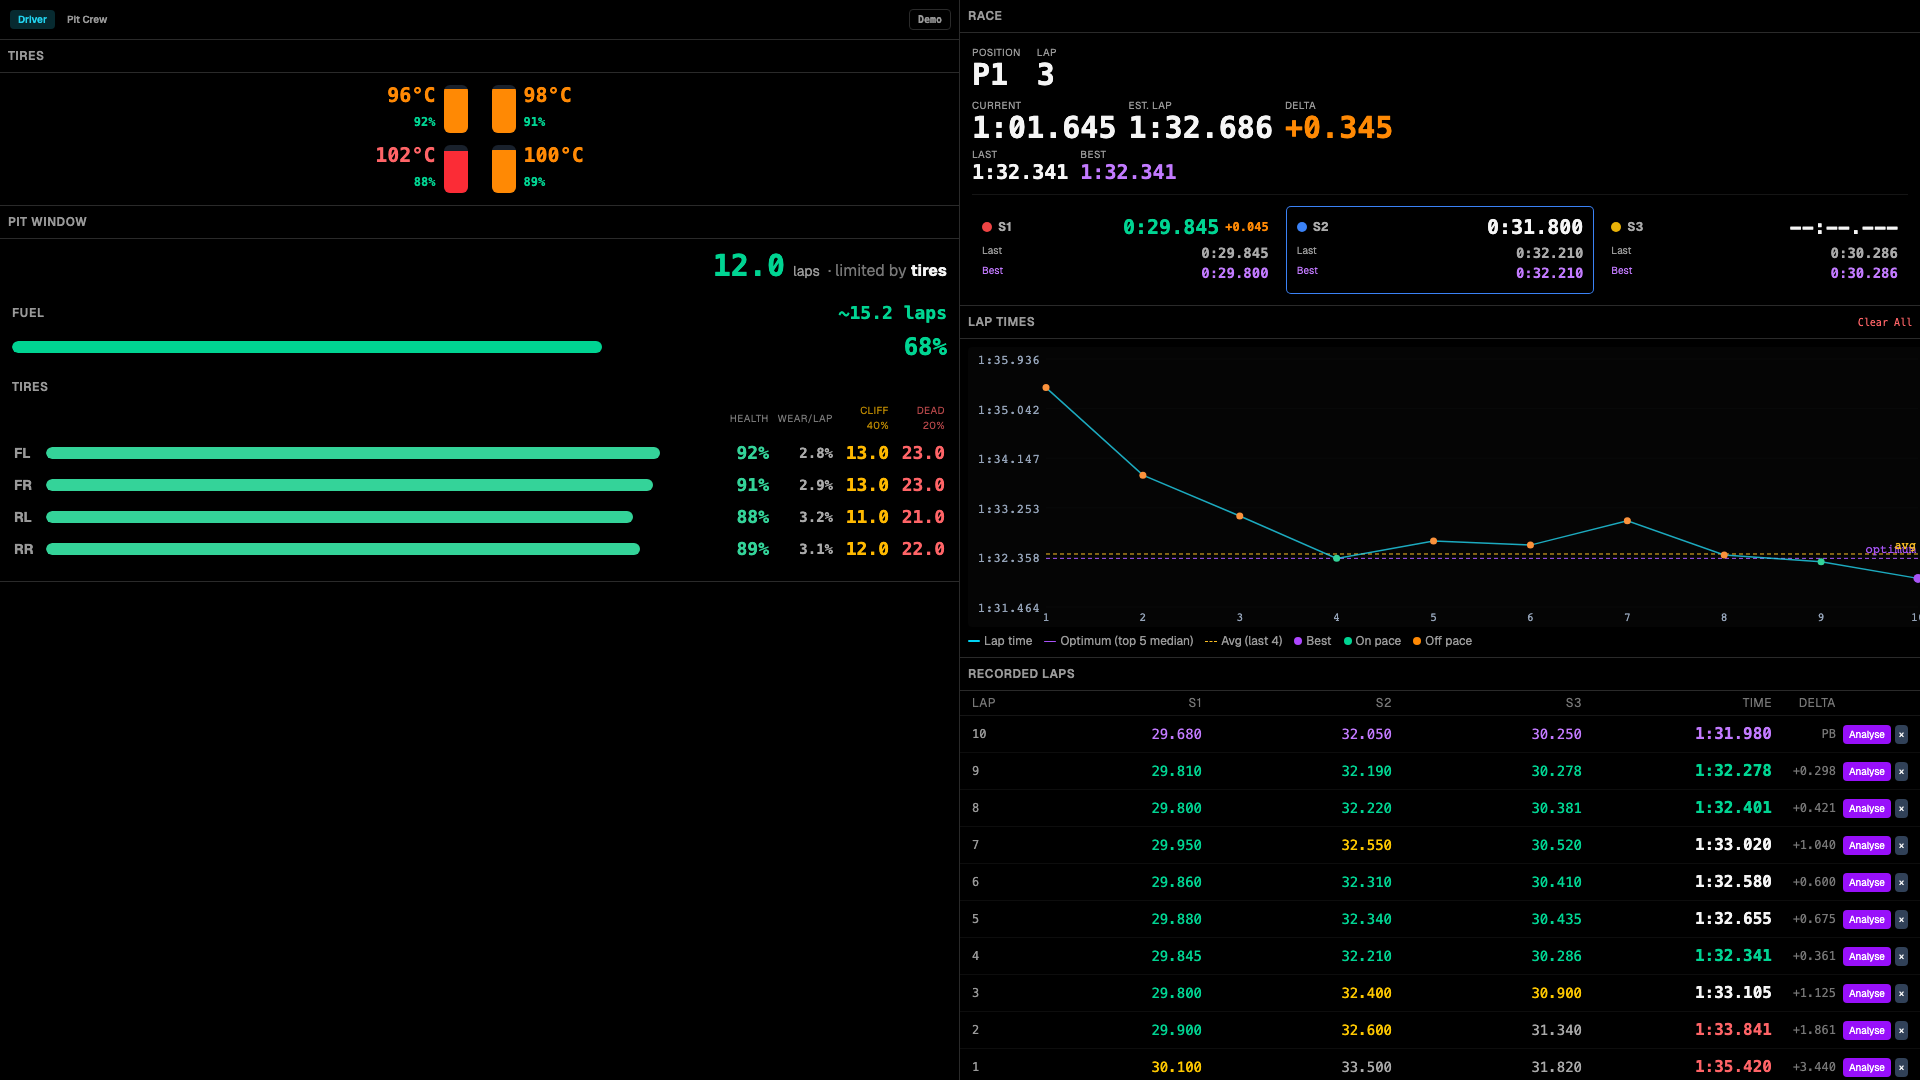
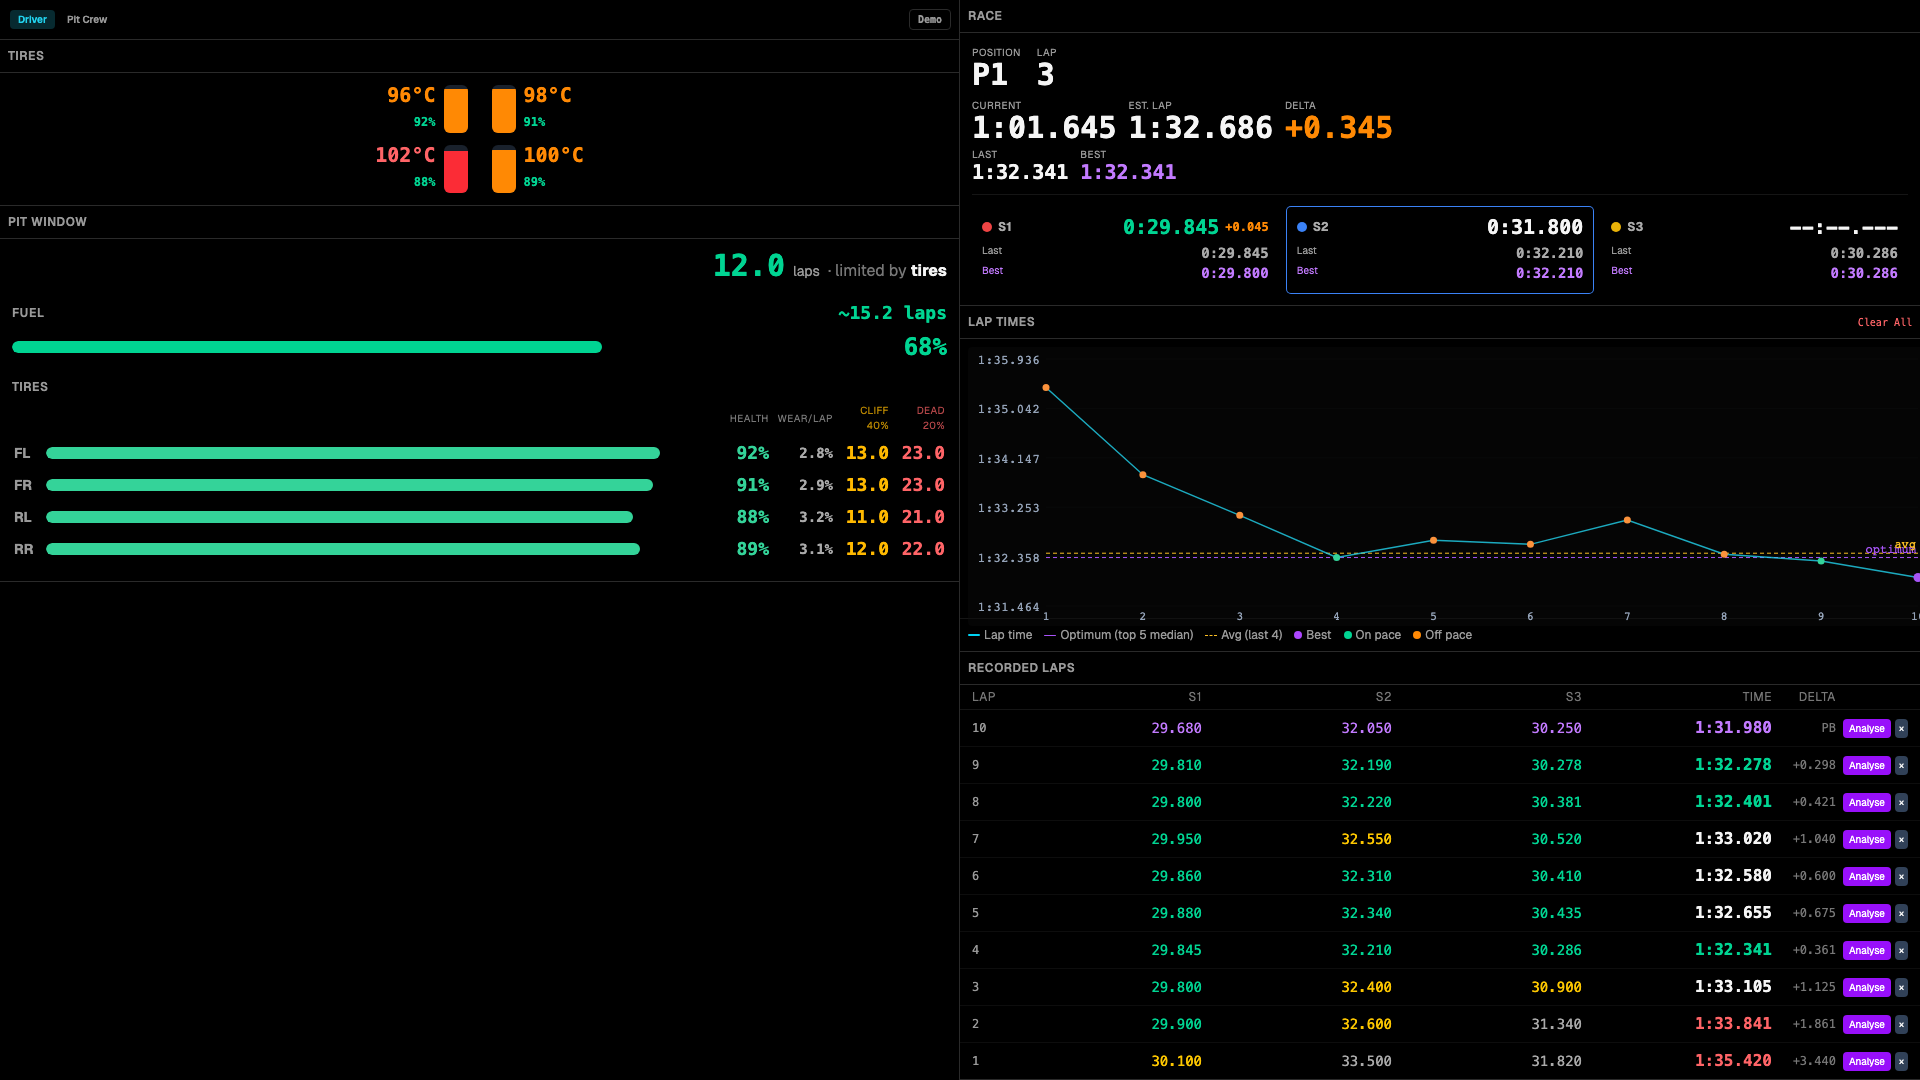
feat(dashes): flex-fill pace chart, 60/40 split, NoData stories
- LapTimeChart fills its flex parent via h-full flex flex-col; canvas is
  absolutely positioned inside a flex-1 wrapper so it can't push the
  parent taller. Canvas pixel buffer syncs to the measured rect.
- ComboDash2 locks grid rows at 3fr/2fr (60% chart / 40% laps) so the
  chart doesn't eat the whole panel when there are no laps yet.
- Each dash story gains a NoData variant alongside populated states.

diff --git a/client/src/components/LapTimeChart.tsx b/client/src/components/LapTimeChart.tsx
@@ -13,10 +13,11 @@ import { formatLapTime } from "./LiveTelemetry";
 export function LapTimeChart({
   packet,
   allLaps = [],
-  height = 280,
+  height,
 }: {
   packet: TelemetryPacket | null;
   allLaps?: LapMeta[];
+  /** Optional fixed height. If omitted the chart fills its parent via flex. */
   height?: number;
 }) {
   const [liveLaps, setLiveLaps] = useState<{ lap: number; time: number }[]>([]);
@@ -59,18 +60,27 @@ export function LapTimeChart({
 
   const canvasRef = useRef<HTMLCanvasElement>(null);
   const containerRef = useRef<HTMLDivElement>(null);
-  const [containerWidth, setContainerWidth] = useState(0);
+  // When height is provided via props, use it; otherwise the canvas
+  // wrapper fills its flex parent and we measure its rendered size.
+  const [measured, setMeasured] = useState<{ w: number; h: number }>({ w: 0, h: 280 });
 
-  // Track container width so the canvas redraws when the panel resizes.
   useEffect(() => {
     const container = containerRef.current;
     if (!container) return;
-    const update = () => setContainerWidth(container.clientWidth);
+    const update = () => {
+      const rect = container.getBoundingClientRect();
+      if (rect.width > 0 && rect.height > 0) {
+        setMeasured({ w: rect.width, h: rect.height });
+      }
+    };
     update();
     const ro = new ResizeObserver(update);
     ro.observe(container);
     return () => ro.disconnect();
   }, []);
+
+  const containerWidth = measured.w;
+  const effectiveHeight = height ?? measured.h;
 
   const handleClearAll = () => {
     setLiveLaps([]);
@@ -87,19 +97,20 @@ export function LapTimeChart({
     if (!ctx) return;
 
     const width = container.clientWidth;
+    const h = effectiveHeight;
     const dpr = window.devicePixelRatio || 1;
     canvas.width = width * dpr;
-    canvas.height = height * dpr;
+    canvas.height = h * dpr;
     canvas.style.width = `${width}px`;
-    canvas.style.height = `${height}px`;
+    canvas.style.height = `${h}px`;
     ctx.scale(dpr, dpr);
-    ctx.clearRect(0, 0, width, height);
+    ctx.clearRect(0, 0, width, h);
 
     const leftPad = 78;
     const rightPad = 10;
     const topPad = 12;
     const bottomPad = 20;
-    const plotH = Math.max(1, height - topPad - bottomPad);
+    const plotH = Math.max(1, h - topPad - bottomPad);
     const yOf = (v: number) => topPad + plotH - ((v - minY) / yRange) * plotH;
 
     const times = laps.map((l) => l.time);
@@ -187,11 +198,11 @@ export function LapTimeChart({
       ctx.textAlign = "center";
       ctx.fillText(`${laps[i].lap}`, x, topPad + plotH + 14);
     }
-  }, [laps, height, containerWidth]);
+  }, [laps, effectiveHeight, containerWidth]);
 
   return (
-    <div className="border-b border-app-border">
-      <div className="p-2 border-b border-app-border flex items-center justify-between">
+    <div className="h-full flex flex-col border-b border-app-border">
+      <div className="shrink-0 p-2 border-b border-app-border flex items-center justify-between">
         <h2 className="text-xs font-semibold text-app-text-muted uppercase tracking-wider">Lap Times</h2>
         <button
           onClick={handleClearAll}
@@ -200,18 +211,26 @@ export function LapTimeChart({
           Clear All
         </button>
       </div>
-      <div className="p-2" ref={containerRef}>
+      <div className="flex-1 min-h-0 relative p-2" ref={containerRef} style={height ? { height: height + 16 } : undefined}>
         {laps.length === 0 && (
-          <div className="flex items-center justify-center rounded bg-app-surface/40 text-app-text-dim text-sm" style={{ height }}>
+          <div className="absolute inset-2 flex items-center justify-center rounded bg-app-surface/40 text-app-text-dim text-sm">
             Complete a lap to see lap times
           </div>
         )}
         <canvas
           ref={canvasRef}
-          style={{ width: "100%", height, display: laps.length > 0 ? "block" : "none" }}
+          style={{
+            position: "absolute",
+            inset: 8,
+            width: "calc(100% - 16px)",
+            height: "calc(100% - 16px)",
+            display: laps.length > 0 ? "block" : "none",
+          }}
           className="rounded bg-app-surface/40"
         />
-        <div className="flex gap-3 mt-1.5 flex-wrap">
+      </div>
+      <div className="shrink-0 p-2 border-t border-app-border/50">
+        <div className="flex gap-3 flex-wrap">
           <div className="flex items-center gap-1">
             <div className="w-3 h-0.5 bg-cyan-400 rounded" />
             <span className="text-xs text-app-text-muted">Lap time</span>

diff --git a/client/src/components/dashes/ComboDash2.tsx b/client/src/components/dashes/ComboDash2.tsx
@@ -1,4 +1,3 @@
-import { useEffect, useRef, useState } from "react";
 import type { TelemetryPacket, LapMeta } from "@shared/types";
 import { LapTimeChart } from "../LapTimeChart";
 import { RecordedLaps } from "../RecordedLaps";
@@ -13,32 +12,11 @@ interface ComboDash2Props {
 export function ComboDash2({ rawPacket, allLaps, sessionLaps }: ComboDash2Props) {
   const trackOrdinal = rawPacket?.TrackOrdinal;
 
-  const chartPanelRef = useRef<HTMLDivElement>(null);
-  const [chartHeight, setChartHeight] = useState(280);
-
-  useEffect(() => {
-    const el = chartPanelRef.current;
-    if (!el) return;
-    const update = () => {
-      // Panel has p-2 (16px total), and the legend row below the canvas
-      // needs ~26px. Reserve both so the legend doesn't clip.
-      const h = Math.max(80, el.clientHeight - 16 - 26);
-      setChartHeight(h);
-    };
-    update();
-    const ro = new ResizeObserver(update);
-    ro.observe(el);
-    return () => ro.disconnect();
-  }, []);
-
   return (
     <DashShell>
-      <div className="h-full w-full grid grid-rows-[1fr_1fr] gap-3 p-4">
-        <div
-          ref={chartPanelRef}
-          className="min-w-0 min-h-0 rounded-md border border-white/10 bg-white/[0.02] overflow-hidden [&_div:has(>h2)]:hidden [&_button]:hidden"
-        >
-          <LapTimeChart packet={rawPacket} allLaps={allLaps} height={chartHeight} />
+      <div className="h-full w-full grid grid-rows-[3fr_2fr] gap-3 p-4">
+        <div className="min-w-0 min-h-0 rounded-md border border-white/10 bg-white/[0.02] overflow-hidden [&_div:has(>h2)]:hidden [&_button]:hidden">
+          <LapTimeChart packet={rawPacket} allLaps={allLaps} />
         </div>
 
         <div className="min-w-0 min-h-0 rounded-md border border-white/10 bg-white/[0.02] overflow-hidden [&_div:has(>h2)]:hidden [&_button]:hidden [&_div.w-16]:hidden">

diff --git a/client/src/stories/dashes/RevDash.stories.tsx b/client/src/stories/dashes/RevDash.stories.tsx
@@ -22,6 +22,13 @@ export default meta;
 type Story = StoryObj<typeof RevDash>;
 
 export const Default: Story = { render: () => wrap() };
+export const NoData: Story = {
+  render: () => (
+    <div style={{ width: "100vw", height: "100vh", background: "#000" }}>
+      <RevDash packet={null} />
+    </div>
+  ),
+};
 export const Idle: Story = { render: () => wrap({ CurrentEngineRpm: 3000, Gear: 1 }) };
 export const Midrange: Story = { render: () => wrap({ CurrentEngineRpm: 11000, Gear: 4 }) };
 export const RedLine: Story = { render: () => wrap({ CurrentEngineRpm: 17900, Gear: 7 }) };

diff --git a/client/src/stories/dashes/ComboDash.stories.tsx b/client/src/stories/dashes/ComboDash.stories.tsx
@@ -71,6 +71,23 @@ export const Default: Story = {
   render: () => wrap(),
 };
 
+export const NoData: Story = {
+  render: () => (
+    <QueryClientProvider client={queryClient}>
+      <div style={{ width: "100vw", height: "100vh", background: "#000" }}>
+        <ComboDash
+          rawPacket={null}
+          packet={null}
+          sectors={null}
+          pit={null}
+          unitSystem="metric"
+          toTempC={fToC}
+        />
+      </div>
+    </QueryClientProvider>
+  ),
+};
+
 export const RedLine: Story = {
   render: () =>
     wrap({

diff --git a/client/src/stories/dashes/LapDash.stories.tsx b/client/src/stories/dashes/LapDash.stories.tsx
@@ -41,6 +41,15 @@ export default meta;
 type Story = StoryObj<typeof LapDash>;
 
 export const Default: Story = { render: () => wrap() };
+export const NoData: Story = {
+  render: () => (
+    <QueryClientProvider client={queryClient}>
+      <div style={{ width: "100vw", height: "100vh", background: "#000" }}>
+        {withRouter(<LapDash packet={null} sectors={null} />)}
+      </div>
+    </QueryClientProvider>
+  ),
+};
 export const UnderBest: Story = {
   render: () => wrap({ LapNumber: 6, CurrentLap: 45.2, LastLap: 91.88, BestLap: 92.341 }),
 };

diff --git a/client/src/stories/dashes/SpeedDash.stories.tsx b/client/src/stories/dashes/SpeedDash.stories.tsx
@@ -26,6 +26,13 @@ type Story = StoryObj<typeof SpeedDash>;
 export const Metric: Story = {
   render: () => wrap({ display: { DisplaySpeed: 260 }, unitSystem: "metric" }),
 };
+export const NoData: Story = {
+  render: () => (
+    <div style={{ width: "100vw", height: "100vh", background: "#000" }}>
+      <SpeedDash packet={null} unitSystem="metric" />
+    </div>
+  ),
+};
 export const Imperial: Story = {
   render: () => wrap({ display: { DisplaySpeed: 162 }, unitSystem: "imperial" }),
 };

diff --git a/client/src/stories/dashes/ComboDash2.stories.tsx b/client/src/stories/dashes/ComboDash2.stories.tsx
@@ -46,6 +46,14 @@ export const Default: Story = {
   render: () => wrap(),
 };
 
+export const NoData: Story = {
+  render: () => (
+    <div style={{ width: "100vw", height: "100vh", background: "#000" }}>
+      <ComboDash2 rawPacket={null} allLaps={[]} sessionLaps={[]} />
+    </div>
+  ),
+};
+
 export const Tablet: Story = {
   render: () => wrap(),
   globals: { viewport: { value: "ipadLandscape", isRotated: false } },
